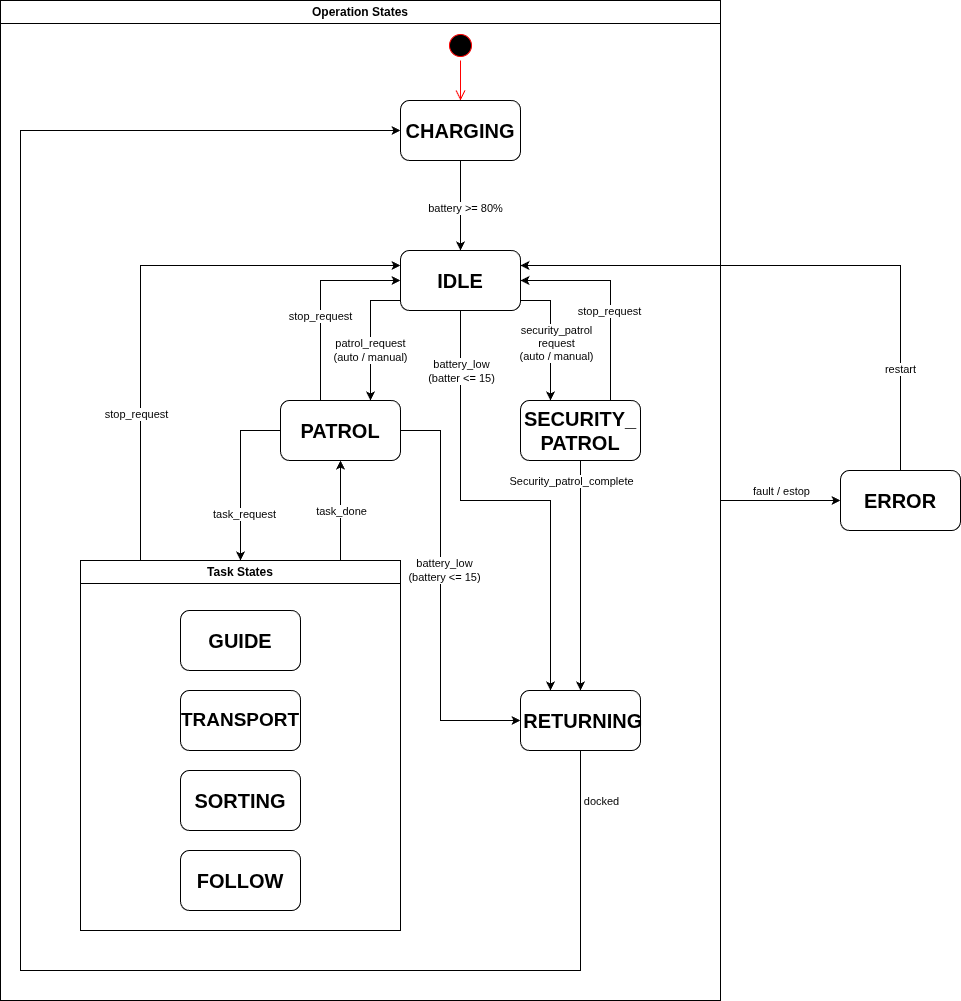
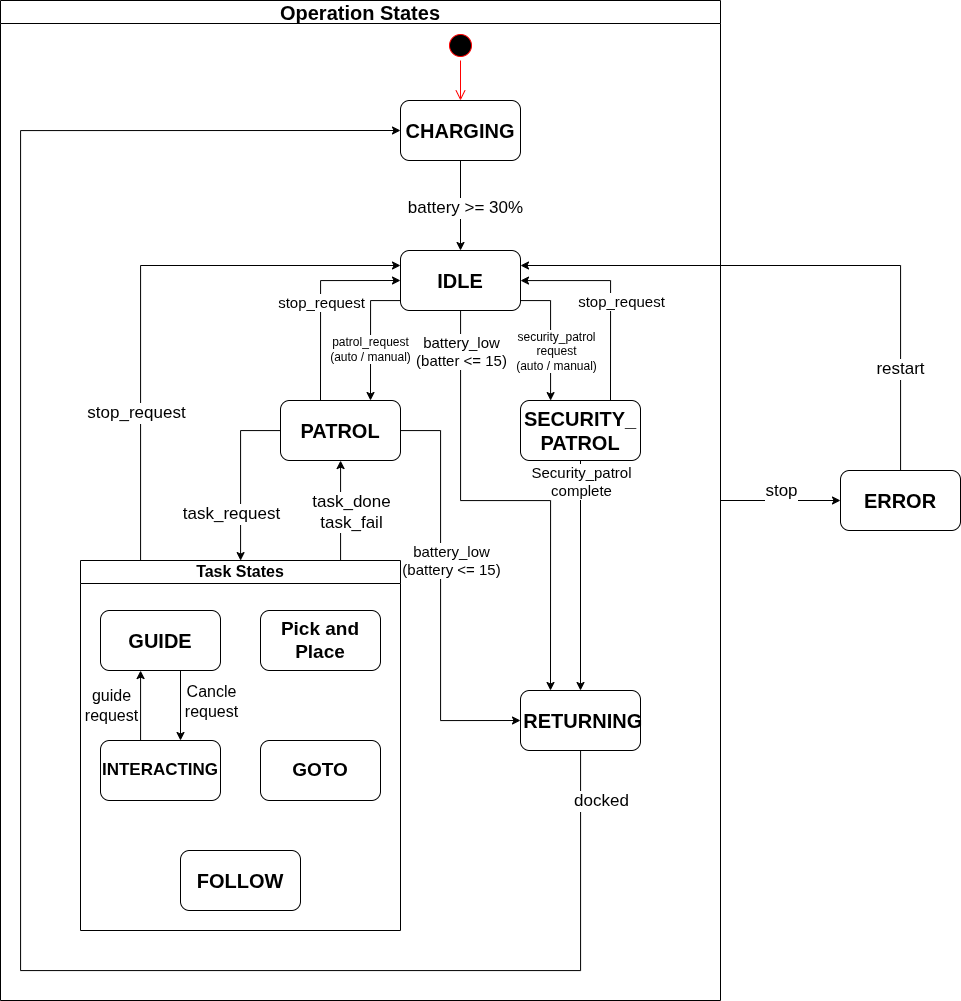
update

diff --git a/index.html b/index.html
@@ -369,7 +369,7 @@ em{font-style:normal;color:var(--accent);font-weight:700;}
 
 
 <!-- 03 System Architecture -->
-<div class="slide archstate" id="p19"><div class="phd"><div class="top"><span class="plabel">PROJECT</span><span class="ptitle kr">ABA (Arte Book Assistance) — 도서관 사서 협동로봇</span><span class="live">진행중</span></div><div class="pnav"><span class="dot"></span><span class="dot on"></span><span class="dot"></span><span class="dot"></span><span class="dot"></span><span class="dot"></span><span class="lab">Architecture · State</span></div><div class="phase-title"><h2 class="kr">시스템 아키텍처 · State Diagram</h2><span class="en">Architecture &amp; State</span><span class="pstep">02 / 06</span></div></div><div class="body"><div class="twoimg" style="gap:8mm"><div><div class="imgwrap" style="height:72mm"><img class="zoomable" src="https://images.prismic.io/asd0821/frZk3dG1XgCvWgiS_aba_arch_sw.png?auto=format,compress" alt="ABA SW 아키텍처"></div><div class="imgcap kr">Software Architecture — 3계층</div></div><div><div class="imgwrap" style="height:72mm"><img class="zoomable" src="https://images.prismic.io/asd0821/xDjuiCACntur7nh7_aba_state.png?auto=format,compress" alt="ABA State Diagram (FSM)"></div><div class="imgcap kr">FSM — Operation + Task States</div></div></div><div style="display:grid;grid-template-columns:1fr 1fr;gap:9mm;margin-top:3mm"><div><div class="lbl">데이터 흐름 · 통신</div><ul class="ilist"><li class="kr"><b>요청(HTTP·REST)</b> 이용자·사서 → ABA Web/Server, 작업 생성·로봇 배정</li><li class="kr"><b>제어(ROS2·DDS)</b> 서버 명령 → Libi 내부 노드가 주행·로봇팔 제어</li><li class="kr"><b>피드백(WS)</b> fsm_state·진행률 실시간 push · <b>인식(TCP·UDP)</b> book_detector→classifier</li></ul></div><div><div class="lbl">State (운영 + 작업)</div><ul class="ilist"><li class="kr"><b>운영</b> — CHARGING · IDLE · PATROL/SECURITY_PATROL · RETURNING · ERROR</li><li class="kr"><b>작업</b> — GUIDE 길잡이 · TRANSPORT 이송 · SORTING 분류 · FOLLOW 추종(짐꾼)</li><li class="kr">전이 — battery_low(≤15%) · patrol_request · task_request/done · fault·estop → <b>ERROR</b></li></ul></div></div></div><div class="pgname">Portfolio · 이강택</div><div class="pg">19</div></div>
+<div class="slide archstate" id="p19"><div class="phd"><div class="top"><span class="plabel">PROJECT</span><span class="ptitle kr">ABA (Arte Book Assistance) — 도서관 사서 협동로봇</span><span class="live">진행중</span></div><div class="pnav"><span class="dot"></span><span class="dot on"></span><span class="dot"></span><span class="dot"></span><span class="dot"></span><span class="dot"></span><span class="lab">Architecture · State</span></div><div class="phase-title"><h2 class="kr">시스템 아키텍처 · State Diagram</h2><span class="en">Architecture &amp; State</span><span class="pstep">02 / 06</span></div></div><div class="body"><div class="twoimg" style="gap:8mm"><div><div class="imgwrap" style="height:72mm"><img class="zoomable" src="https://images.prismic.io/asd0821/X82PiIRGO1cG-3dj_aba_arch_sw.png?auto=format,compress" alt="ABA SW 아키텍처"></div><div class="imgcap kr">Software Architecture — 3계층</div></div><div><div class="imgwrap" style="height:72mm"><img class="zoomable" src="https://images.prismic.io/asd0821/LEvWOVHJWNPZ-vnG_aba_state.png?auto=format,compress" alt="ABA State Diagram (FSM)"></div><div class="imgcap kr">FSM — Operation + Task States</div></div></div><div style="display:grid;grid-template-columns:1fr 1fr;gap:9mm;margin-top:3mm"><div><div class="lbl">데이터 흐름 · 통신</div><ul class="ilist"><li class="kr"><b>요청(HTTP·REST)</b> 이용자·사서 → ABA Web/Server, 작업 생성·로봇 배정</li><li class="kr"><b>제어(ROS2·DDS)</b> 서버 명령 → Libi 내부 노드가 주행·로봇팔 제어</li><li class="kr"><b>피드백(WS)</b> fsm_state·진행률 실시간 push · <b>인식(TCP·UDP)</b> book_detector→classifier</li></ul></div><div><div class="lbl">State (운영 + 작업)</div><ul class="ilist"><li class="kr"><b>운영</b> — CHARGING · IDLE · PATROL/SECURITY_PATROL · RETURNING · ERROR</li><li class="kr"><b>작업</b> — GUIDE 길잡이 · TRANSPORT 이송 · SORTING 분류 · FOLLOW 추종(짐꾼)</li><li class="kr">전이 — battery_low(≤15%) · patrol_request · task_request/done · fault·estop → <b>ERROR</b></li></ul></div></div></div><div class="pgname">Portfolio · 이강택</div><div class="pg">19</div></div>
 
 <div class="slide" id="p20"><div class="phd"><div class="top"><span class="plabel">PROJECT</span><span class="ptitle kr">ABA (Arte Book Assistance) — 도서관 사서 협동로봇</span><span class="live">진행중</span></div><div class="pnav"><span class="dot"></span><span class="dot"></span><span class="dot on"></span><span class="dot"></span><span class="dot"></span><span class="dot"></span><span class="lab">Sequence Diagram</span></div><div class="phase-title"><h2 class="kr">시퀀스 다이어그램</h2><span class="en">Sequence</span><span class="pstep">03 / 06</span></div></div><div class="body">
 <div class="twoimg">